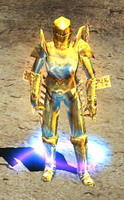
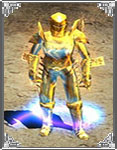
fix backgroud img cashshop

diff --git a/cdata/my_cashshop/_general.php b/cdata/my_cashshop/_general.php
@@ -28,7 +28,7 @@ cn_snippet_messages();
                         <input type="hidden" name="Item" value="<?php echo $key; ?>">
                         <table style="width: 150px;height: 170px;">
                             <tr class="h-ww" style="height: 105px;cursor: pointer;">
-                                <td class="h-w" style="background-image: url(images/round.gif)" align="middle"
+                                <td class="h-w" align="middle"
                                     valign="top"><img
                                         align="middle" <?php if ($raw['image_mh']) echo 'style="width: 80%;"'; else echo 'style=""'; ?>
                                         src="./images/<?php if ($raw['image_mh']) {

diff --git a/admin/core/modules/mu_cashshop.php b/admin/core/modules/mu_cashshop.php
@@ -17,7 +17,7 @@ function cashshop_invoke()
         'cashshop:weapons:action:Wea' => 'Đao - Kiếm',
         'cashshop:scepters:action:Sce' => 'Quyền trượng',
         'cashshop:staffs:action:Sta' => 'Gậy',
-        'cashshop:spears:action:Spa' => 'Thương - Giáo',
+        'cashshop:spears:action:Spe' => 'Thương - Giáo',
         'cashshop:fenrir:action:Fen' => 'Linh hồn Sói Tinh',
         'cashshop:eventticket:action:Tic' => 'Vé sự kiện',
         'cashshop:orther:action:Ocas' => 'Các loại khác'

diff --git a/core/cashshop/shop_orther.php b/core/cashshop/shop_orther.php
@@ -16,6 +16,6 @@
 1E0800000000000000C0000000000000|20 Ngọc ước nguyện|1000|JewelBless.jpg|
 1F0000000000000000C0000000000000|10 Ngọc Tâm Linh|1000|JewelSoul.jpg|
 1F0800000000000000C0000000000000|20 Ngọc Tâm Linh|1000|JewelSoul.jpg|
-0F0000000000000000C0000000000000|Chaos|1000|bless.jpg|
-100000000000000000E0000000000000|Life|1000||
+0F0000000000000000C0000000000000|Chaos|1000|chaos.jpg|
+100000000000000000E0000000000000|Life|1000|life.jpg|
 218F5D000086827F000000FFFFFFFF00|Nắm đấm quyền lực|100000||
